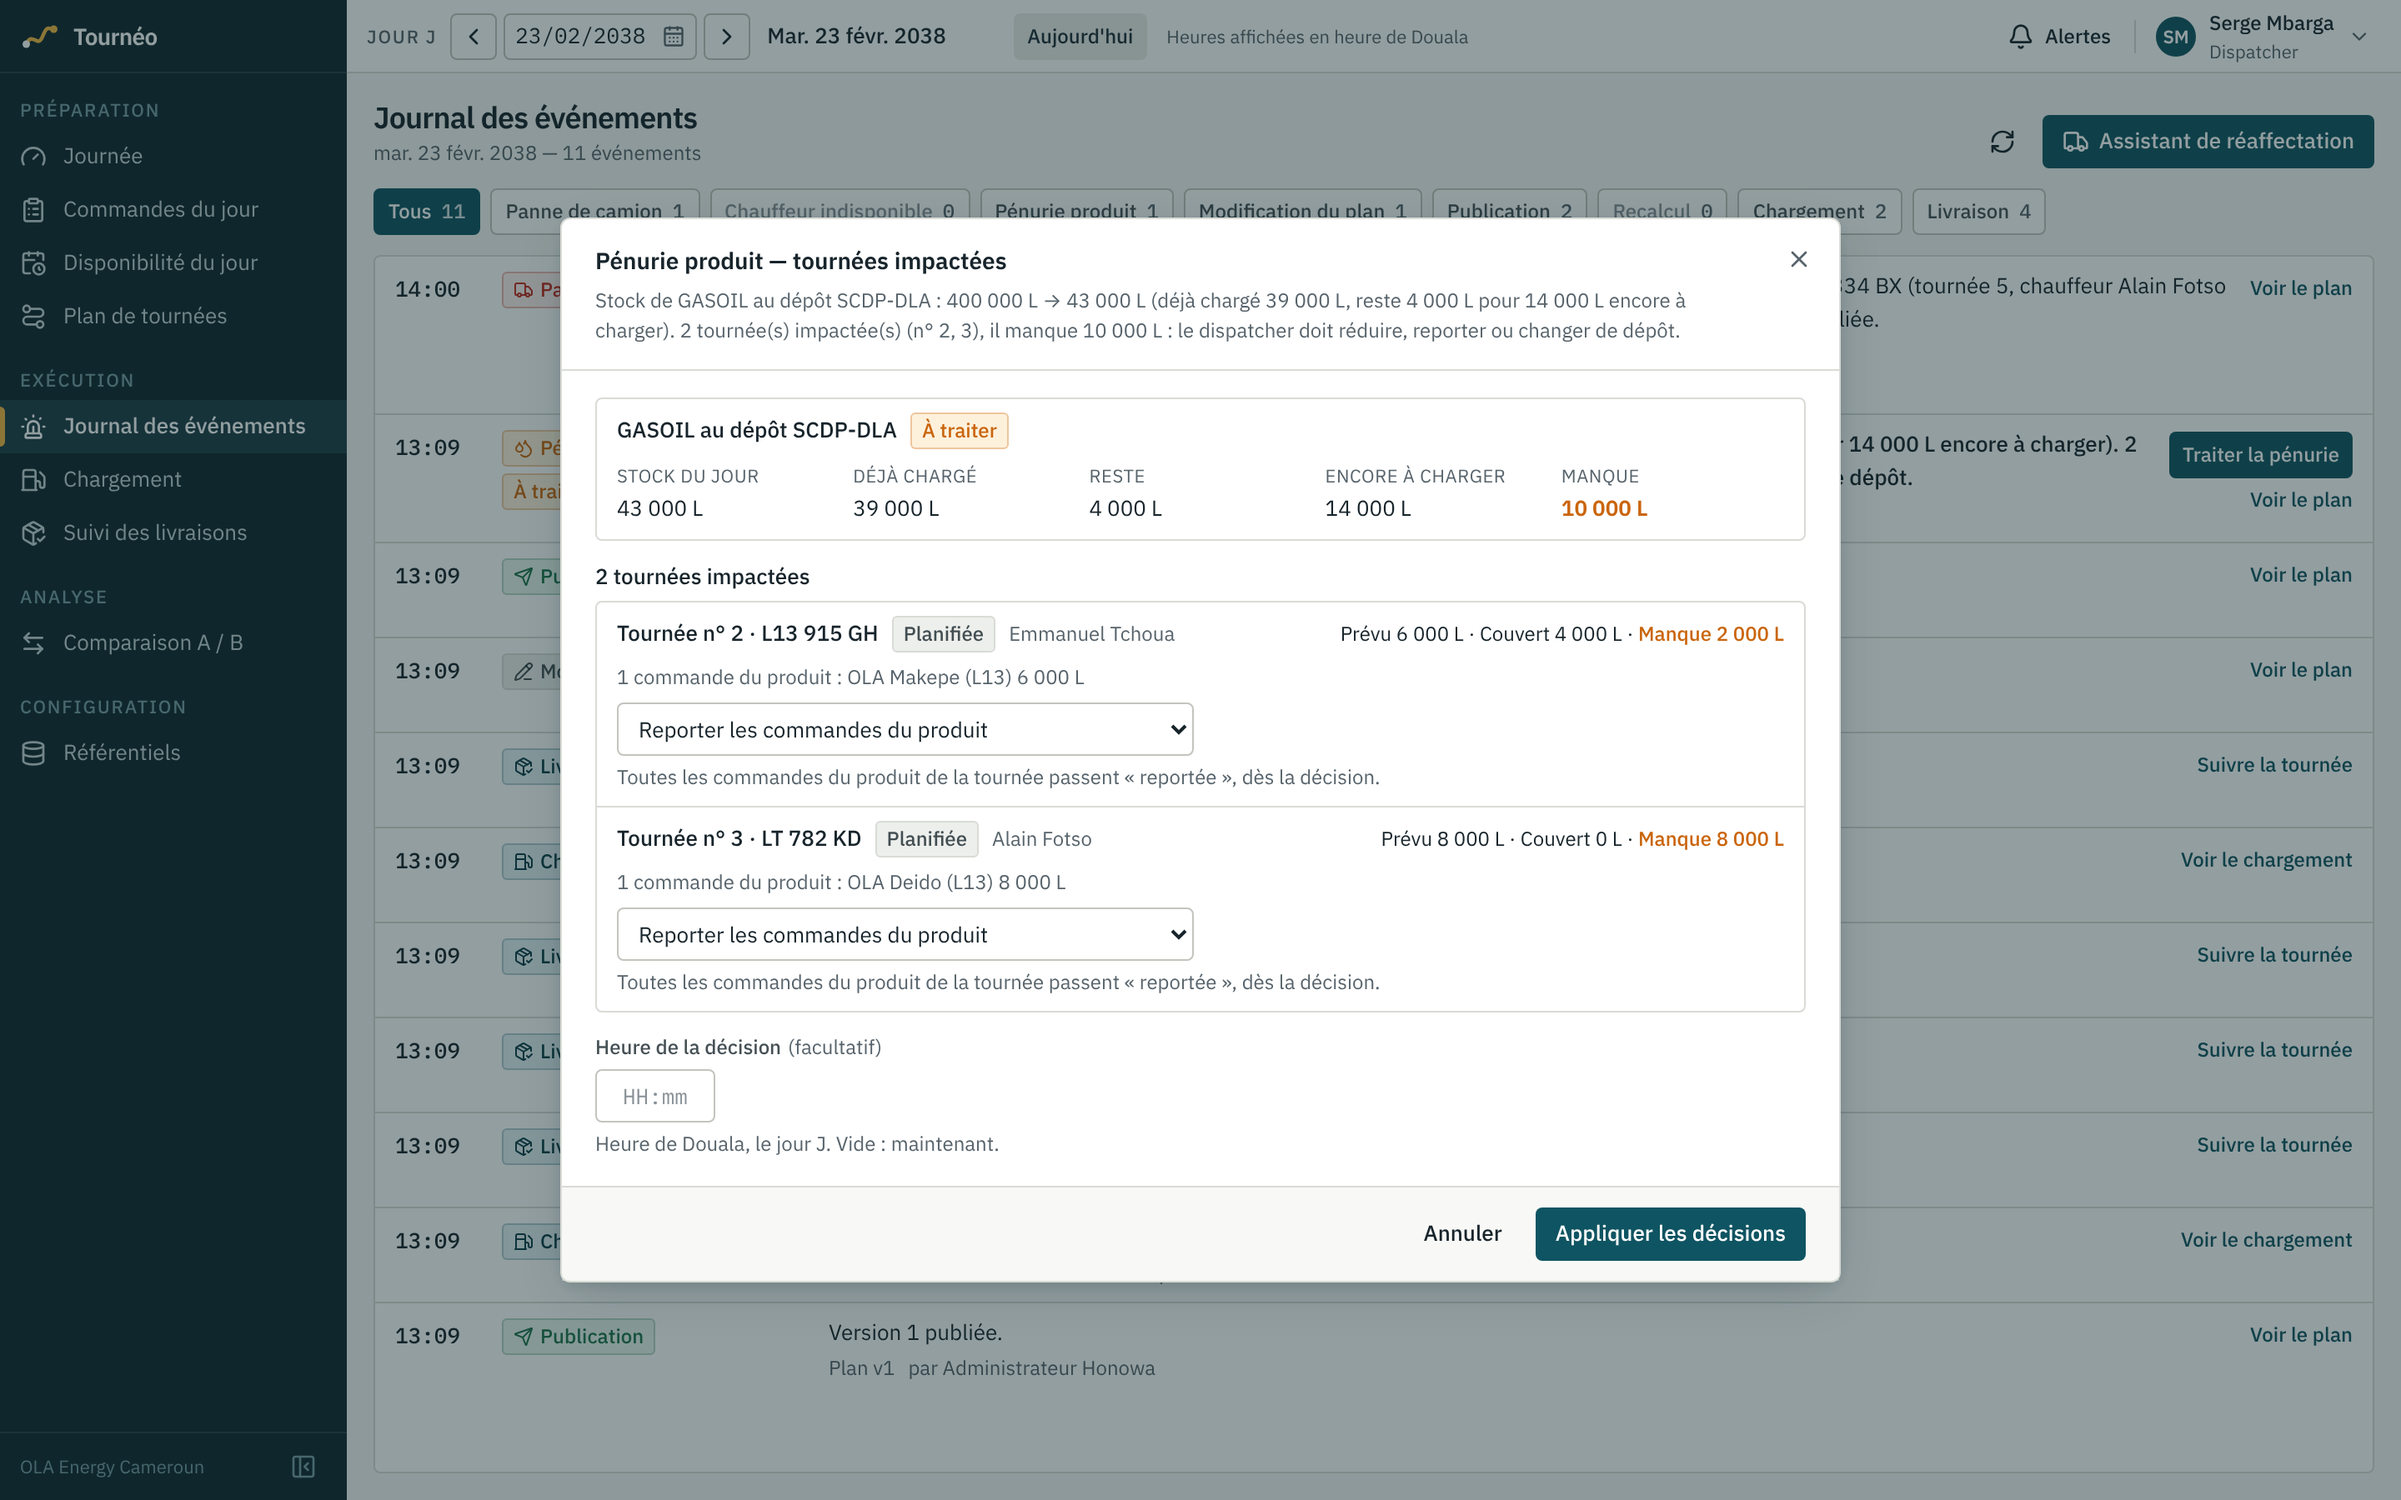
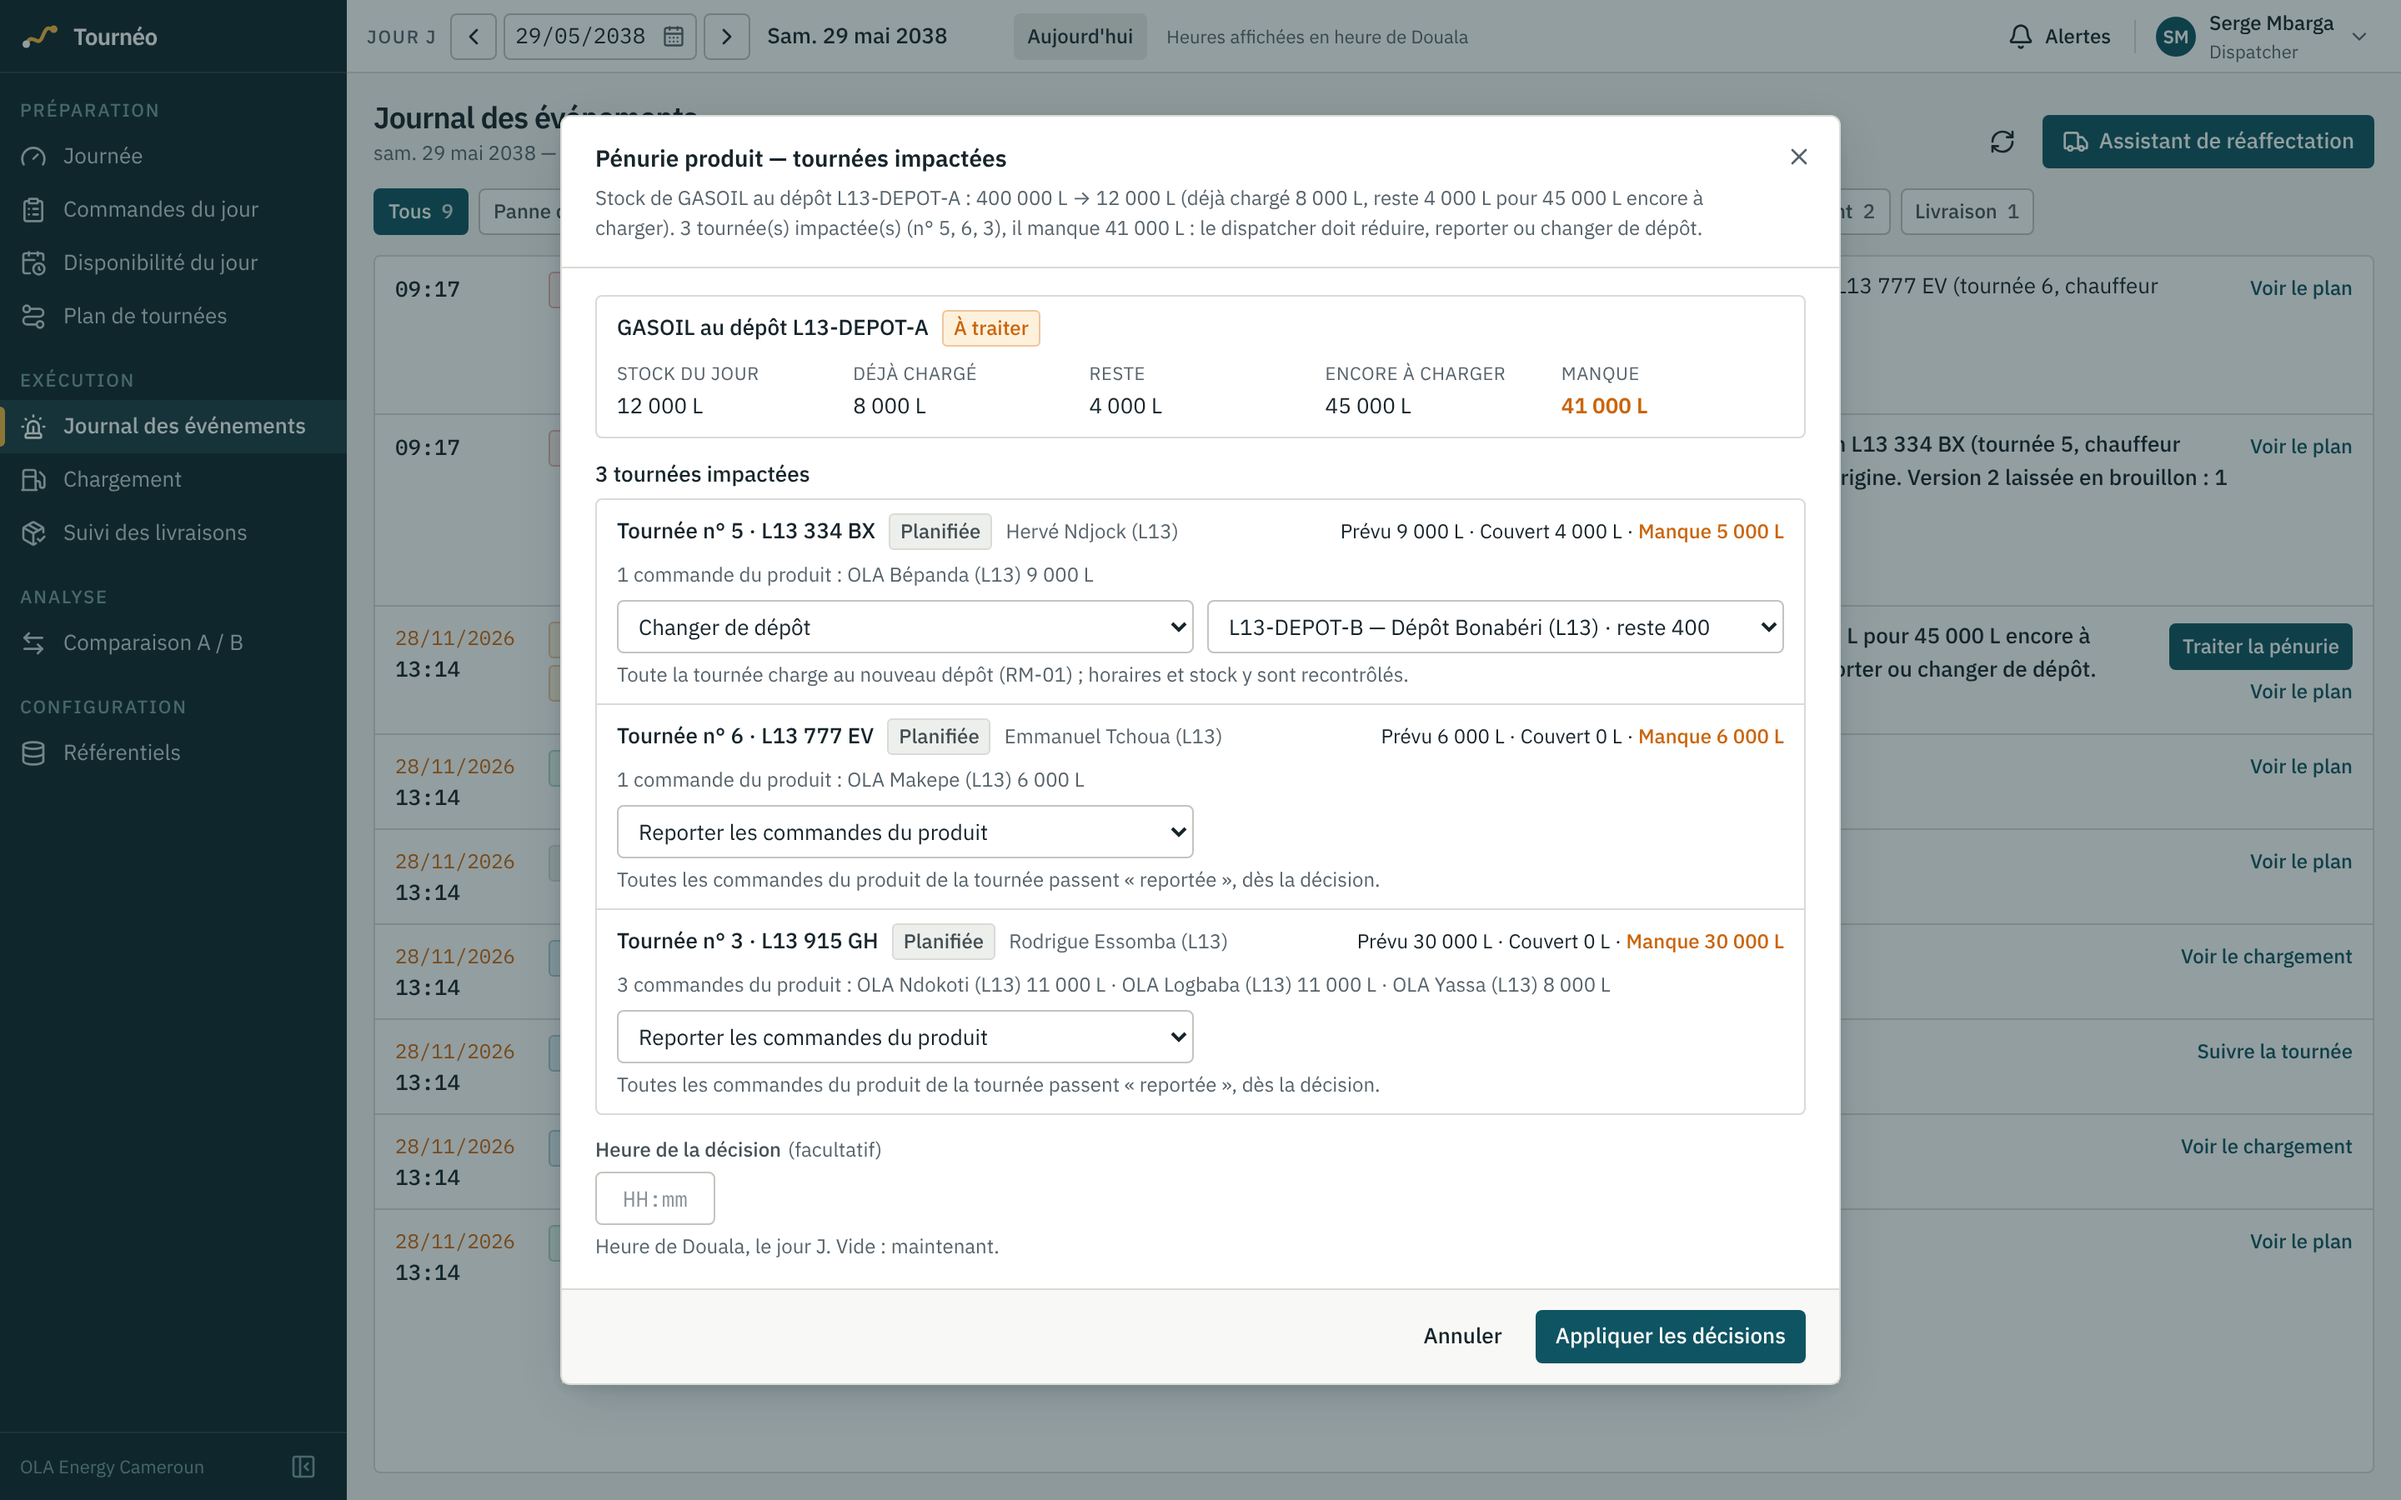
Journal : parcours panne à deux tournées et pénurie déclarée par Supply, captures, questions de reprise
Claude-Session: https://claude.ai/code/session_01WbKnrdsNcZHw9DjmF11Z3t

diff --git a/frontend/e2e/l13-evenements.e2e.ts b/frontend/e2e/l13-evenements.e2e.ts
@@ -26,6 +26,8 @@ let day: string;
 let broken: SeedTrip;
 /** Seconde tournée du même camion, encore planifiée au moment de la panne. */
 let later: SeedTrip;
+/** Tournée d'un autre camion, chargée et partie avant la pénurie. */
+let loadedTrip: SeedTrip;
 let dispatcher: { context: BrowserContext; page: Page };
 
 test.describe.configure({ mode: "serial" });
@@ -81,6 +83,41 @@ async function run(trip: SeedTrip, delivered: number, complete: boolean): Promis
   }
 }
 
+/**
+ * Camion de réserve du parcours (`L13 777 EV`, hors plan) : sans lui, la flotte du jeu d'essai ne laisse
+ * aucun camion éligible pour reprendre la seconde tournée du camion en panne (capacité, RM-14).
+ * Créé une seule fois, puis rendu disponible pour le jour du parcours.
+ */
+async function ensureSpareTruck(): Promise<void> {
+  const token = seed.adminToken;
+  const plate = "L13 777 EV";
+  const found = await call<{ items: { id: string; plate: string }[] }>(
+    `/trucks?q=${encodeURIComponent(plate)}&limit=50`,
+    { token },
+  );
+  const spare =
+    found.items.find((truck) => truck.plate === plate) ??
+    (await call<{ id: string }>("/trucks", {
+      method: "POST",
+      token,
+      body: {
+        plate,
+        size: "large",
+        avg_speed_kmh: 40,
+        cost_per_km: 600,
+        compartments: [12000, 10000, 8000, 5000].map((capacity_l, index) => ({
+          position: index + 1,
+          capacity_l,
+        })),
+      },
+    }));
+  await call(`/availability/trucks?day=${day}`, {
+    method: "PUT",
+    token,
+    body: { items: [{ truck_id: spare.id, available: true }] },
+  });
+}
+
 test.beforeAll(async () => {
   test.setTimeout(300_000);
   seed = await seedPublishedPlan();
@@ -91,7 +128,13 @@ test.beforeAll(async () => {
   const pair = [...byTruck.values()].find((trips) => trips.length === 2 && trips[0].stops.length >= 2);
   expect(pair, "le plan d'essai contient un camion à deux tournées").toBeTruthy();
   [broken, later] = pair as [SeedTrip, SeedTrip];
+  await ensureSpareTruck();
   await run(broken, 1, false);
+  // Une tournée d'un autre camion, chargée en gasoil et partie : son volume compte dans le « déjà chargé ».
+  const other = seed.trips.find((trip) => trip.truck_id !== broken.truck_id && gasoil(trip) > 1);
+  expect(other, "le plan d'essai contient une autre tournée chargée en gasoil").toBeTruthy();
+  loadedTrip = other as SeedTrip;
+  await run(loadedTrip, 0, false);
 });
 
 test.afterAll(async () => {
@@ -238,7 +281,10 @@ test("dispatcher : panne d'un camion à deux tournées → enchaînement → nou
   // Résultat tel que le serveur le renvoie : publiée, ou en brouillon avec ses violations.
   const result = dialog.getByTestId("plan-result");
   await expect(result).toContainText(/Version \d+ (du plan publiée|en brouillon|du plan en brouillon)/);
-  const published = /du plan publiée/.test(await result.innerText());
+  const resultText = await result.innerText();
+  test.info().annotations.push({ type: "version après enchaînement", description: resultText });
+  const published = /du plan publiée/.test(resultText);
+  await shot(page, "l13-15-journal-enchainement-resultat");
   if (published) {
     // La tournée de remplacement repart du dépôt : elle est dans l'écran Chargement, sur le nouveau camion.
     await dialog.getByRole("link", { name: "Ouvrir son chargement" }).click();
@@ -248,7 +294,6 @@ test("dispatcher : panne d'un camion à deux tournées → enchaînement → nou
     await expect(result.getByRole("link", { name: /Ouvrir le plan/ })).toBeVisible();
     await expect(dialog.getByRole("link", { name: "Ouvrir son chargement" })).toHaveCount(0);
   }
-  test.info().annotations.push({ type: "version après enchaînement", description: await result.innerText() });
 
   // Le journal porte les deux événements, avec leur motif.
   await page.goto(`/journal?day=${day}`);
@@ -262,7 +307,7 @@ test("pénurie produit : déclarée par l'écran (supply), traitée par le dispa
   browser,
 }) => {
   // Stock total du jour = déjà chargé + 4 000 L : les tournées de gasoil non chargées ne sont plus couvertes.
-  const loaded = gasoil(broken);
+  const loaded = gasoil(loadedTrip);
   const stock = loaded + 4000;
 
   // Supply voit le Journal et déclare ; l'assistant de réaffectation ne lui est pas proposé.
@@ -274,13 +319,11 @@ test("pénurie produit : déclarée par l'écran (supply), traitée par le dispa
   await form.getByRole("combobox", { name: "Produit" }).selectOption({ label: "Gasoil" });
   const field = form.getByRole("textbox", { name: "Nouveau stock disponible" });
 
-  if (loaded > 1) {
-    // Refus expliqué : le stock total ne peut pas être inférieur à ce qui est déjà chargé.
-    await field.fill("1");
-    await form.getByRole("button", { name: "Déclarer" }).click();
-    await expect(form.getByRole("alert")).toContainText("Déclaration refusée");
-    await expect(form.getByRole("alert")).toContainText("Le stock saisi est le stock total du jour");
-  }
+  // Refus expliqué : le stock total ne peut pas être inférieur à ce qui est déjà chargé.
+  await field.fill("1");
+  await form.getByRole("button", { name: "Déclarer" }).click();
+  await expect(form.getByRole("alert")).toContainText("Déclaration refusée");
+  await expect(form.getByRole("alert")).toContainText("Le stock saisi est le stock total du jour");
 
   await field.fill(String(stock));
   await form.getByRole("button", { name: "Déclarer" }).click();

diff --git a/docs/questions/l13-ecrans.md b/docs/questions/l13-ecrans.md
@@ -63,3 +63,21 @@ tous les appels sont dans `frontend/src/features/events/api.ts`.
   `lib/auth/roles.ts` (contournement conservé à l'écran 7 ; pénurie déclarée en `admin` dans le parcours e2e).
 - **Jeu de données des parcours** : tout ce que `e2e/l13-seed.ts` crée est préfixé `L13` (stations `L13-…`, camions
   `L13 …`, permis `L13-…`, noms suffixés « (L13) ») et le script est rejouable sur une base remplie par d'autres lots.
+
+## Reprise (semaine du 28/11) — choix et constats ajoutés
+
+| # | Question | Choix fait |
+|---|---|---|
+| L13-20 | Enchaînement d'une panne sur les autres tournées du camion : le serveur ne publie pas de lui-même un brouillon déjà existant. | Pour la suite d'un même incident, l'assistant envoie `publish: true`, uniquement si le brouillon est né de l'étape précédente (`version_created`) : la version est publiée dès qu'elle n'a plus de violation bloquante. À confirmer avec le lot L10. |
+| L13-21 | Livraison partielle (défaut D8 en cours de correction) : comment reconnaître une commande livrée en partie ? | D'après la réponse de l'API seulement : un volume livré > 0 sur une commande dont le statut n'est pas « livrée » → mention « Livrée en partie : reliquat à replanifier ». Testé sur doublure ; à revoir si le correctif renvoie un autre signal. |
+| L13-22 | Journal, écart E5 : heure de l'événement et heure de saisie. | La date est affichée avec l'heure quand l'événement n'est pas daté du jour J. `EventOut` n'expose pas d'heure de saisie (`created_at`) : la distinction événement / saisie reste impossible côté écran, et l'ordre du fil mélange toujours les deux. |
+
+- **`POST /events/product-shortage` après une panne** : le gasoil déjà chargé sur la tournée d'origine n'est plus compté
+  (« Déjà chargé 0 L », un stock de 1 L est accepté). Attendu : refus `stock_below_loaded`. Peut être voulu
+  (rechargement au dépôt, question L10-1) : à trancher.
+- **Jeu d'essai des parcours** : `e2e/l13-seed.ts` n'utilise plus que les ressources du lot (deux dépôts `L13-DEPOT-A/B`,
+  stations, camions, chauffeurs) ; les dépôts, camions et chauffeurs des autres lots sont neutralisés pour le seul jour
+  du parcours (stock à 0, indisponibilité du jour). Le parcours des événements crée un camion de réserve `L13 777 EV`.
+- **Catalogue** : adoptés `Steps`, `SegmentedProgress`, `FilterChip`, `formatSigned`, `formatSignedPercent`,
+  `Notice tone="success"`. Gardés localement : la pastille de type d'événement (`StatusBadge kind="event"` n'a pas
+  d'icône) et la carte radio de l'assistant (pas d'équivalent).
